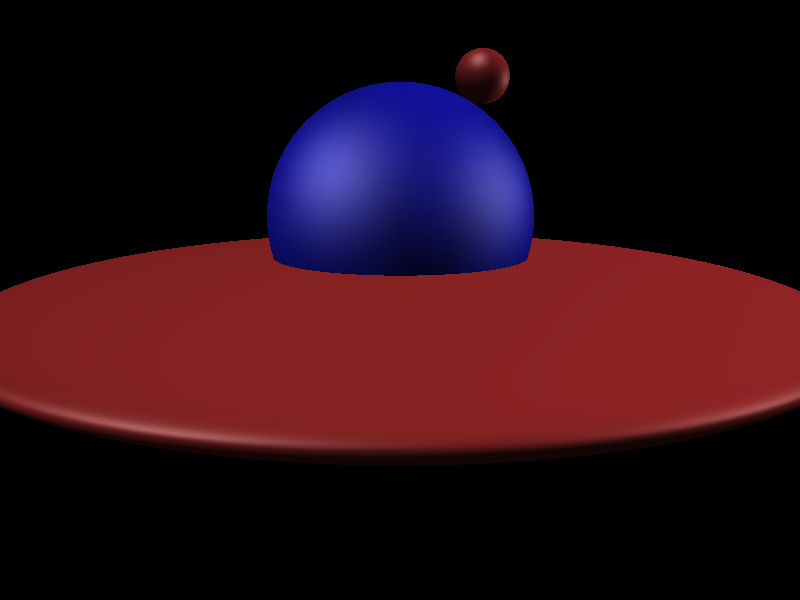
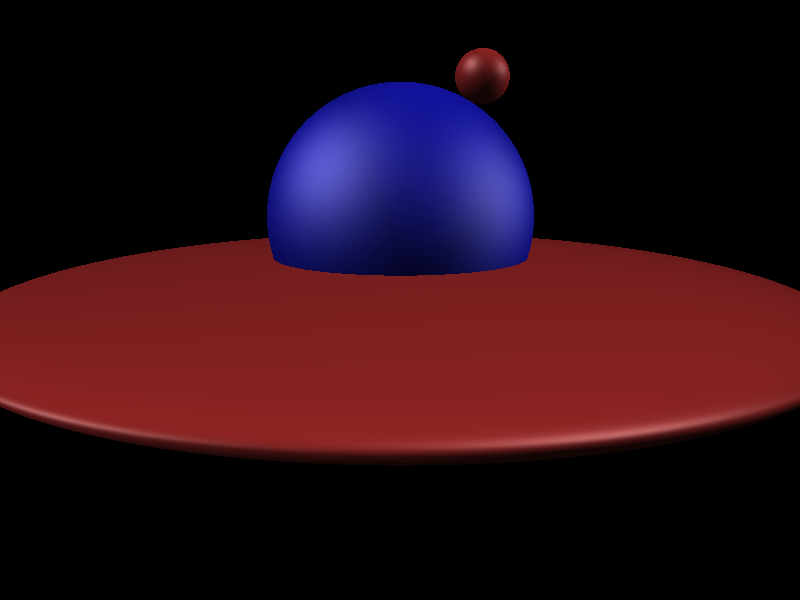
Modify My recursive function

diff --git a/BHRayTracer/Main.cpp b/BHRayTracer/Main.cpp
@@ -15,32 +15,24 @@ LightList lights;
 #define PI 3.14159265
 int LoadScene(char const *filename);
 
-void recursive(int _i, int _j,Node* root, Ray ray, bool &_bHit, float& _closestZ, const LightList &lights) {
+void recursive(int _i, int _j, Node* root, Ray ray, HitInfo & outHit, bool &_bHit) {
 	if (root->GetNumChild() <= 0) return;
 	for (int i = 0; i < root->GetNumChild(); i++)
 	{
 		if (root->GetChild(i)->GetNodeObj() != nullptr) {
-			
+
 			// transform ray to child coordinate
 			Ray transformedRay = root->GetChild(i)->ToNodeCoords(ray);
-			HitInfo outHit;
 
 			if (root->GetChild(i)->GetNodeObj()->IntersectRay(transformedRay, outHit, 1))
 			{
-				if (outHit.z <= _closestZ) {
-					_closestZ = outHit.z;
-					outHit.node = root->GetChild(i);
+				outHit.node = root->GetChild(i);
+				_bHit = true;
 
-					root->GetChild(i)->FromNodeCoords(outHit);
-
-					Color outColor = outHit.node->GetMaterial()->Shade(transformedRay, outHit, lights);
-					renderImage.GetPixels()[_j*camera.imgWidth + _i] = Color24(outColor);
-					renderImage.GetZBuffer()[_j*camera.imgWidth + _i] = outHit.z;
-					_bHit = true;
-				}
 			}
-			recursive(_i, _j, root->GetChild(i), transformedRay, _bHit, _closestZ, lights);
 
+			recursive(_i, _j, root->GetChild(i), transformedRay, outHit, _bHit);
+			root->GetChild(i)->FromNodeCoords(outHit);
 		}
 	}
 }
@@ -49,11 +41,11 @@ void ShowViewport();
 void BeginRender() {
 	Vec3f rayStart = camera.pos;
 	float aor = camera.imgWidth / (float)camera.imgHeight;
- 	float tan_h_pov = tan(camera.fov / 2 * PI / 180.0);
+	float tan_h_pov = tan(camera.fov / 2 * PI / 180.0);
 	float l = 1;
 	float h = 2 * l * tan_h_pov;
 	float w = aor * h;
-	
+
 	Vec3f camZAxis = -camera.dir;
 	Vec3f camYAxis = camera.up;
 	Vec3f camXAxis = camYAxis.Cross(camZAxis);
@@ -70,10 +62,18 @@ void BeginRender() {
 			tRay.dir = pixelPos - rayStart;
 			// For this ray, if it hits or not
 			bool bHit = false;
-			float cloestZ = BIGFLOAT;
-			recursive(i, j, &rootNode, tRay, bHit, cloestZ, lights);
-			// if it is not hit, write as black and the z buffer is big float
-			if (!bHit) {
+			HitInfo outHit;
+			recursive(i, j, &rootNode, tRay, outHit, bHit);
+			if (bHit) {
+				Ray worldRay;
+				worldRay.dir = pixelPos - rayStart;
+				worldRay.p = rayStart;
+				Color outColor = outHit.node->GetMaterial()->Shade(worldRay, outHit, lights);
+
+				renderImage.GetPixels()[j*camera.imgWidth + i] = Color24(outColor);
+				renderImage.GetZBuffer()[j*camera.imgWidth + i] = outHit.z;
+			}
+			else {
 				renderImage.GetPixels()[j*camera.imgWidth + i].Set(0, 0, 0);
 				renderImage.GetZBuffer()[j*camera.imgWidth + i] = BIGFLOAT;
 			}

diff --git a/BHRayTracer/DataStructure/Sphere.cpp b/BHRayTracer/DataStructure/Sphere.cpp
@@ -16,9 +16,15 @@ bool Sphere::IntersectRay(Ray const &ray, HitInfo &hInfo, int hitSide /*= HIT_FR
 		float t1 = (-B + sqrt(DD)) / (2 * A);
 		float t2 = (-B - sqrt(DD)) / (2 * A);
 		float t = Min(t1, t2);
-		hInfo.z = t;
-		if(t < 0)
+
+		if (t < 0) {
+			if (hInfo.z > Max(t1, t2)) return false;
 			hInfo.z = Max(t1, t2);
+		}
+		else {
+			if (hInfo.z < Min(t1, t2)) return false;
+			hInfo.z = Min(t1, t2);
+		}
 
 		hInfo.p = oc + hInfo.z * dir;
 		hInfo.N = hInfo.p;// - Vec3f(0, 0, 0);
@@ -26,6 +32,6 @@ bool Sphere::IntersectRay(Ray const &ray, HitInfo &hInfo, int hitSide /*= HIT_FR
 		hInfo.front = true;
 		return true;
 	}
-	
+
 	return false;
 }
